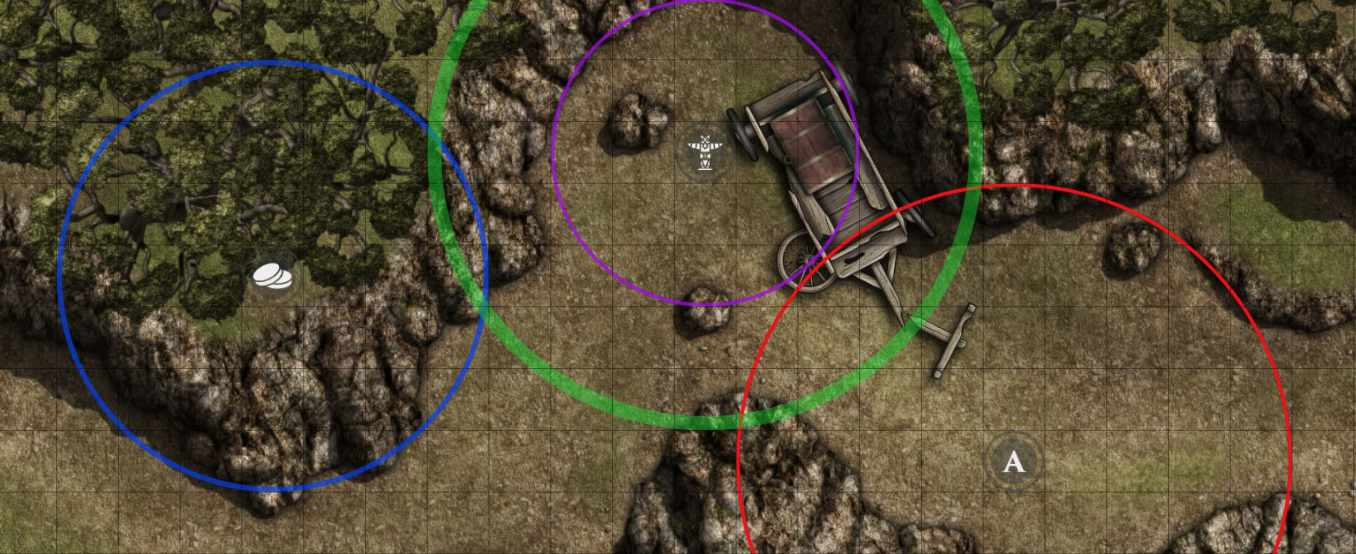
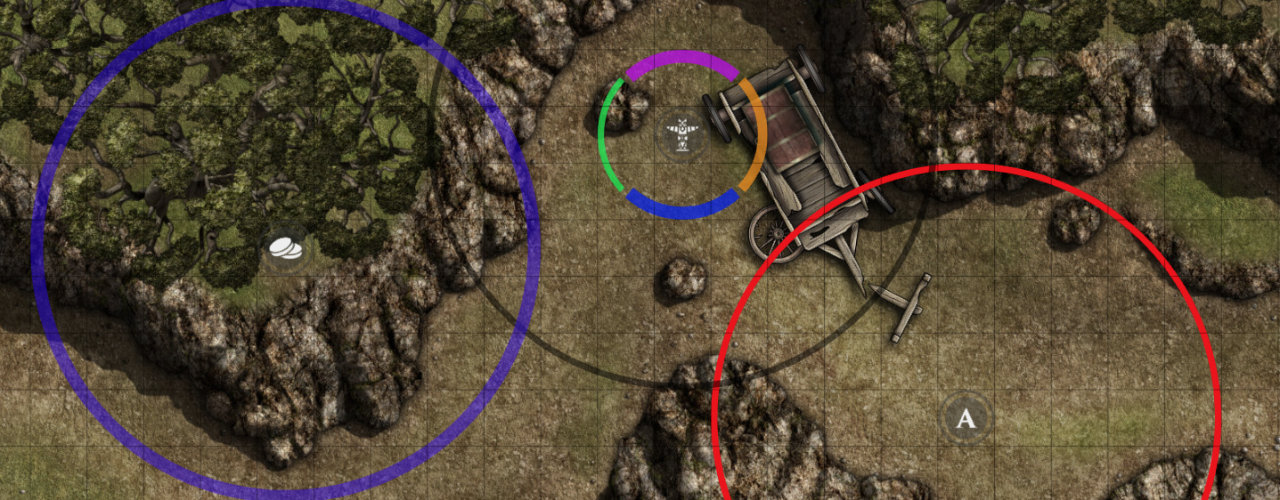
Updated readme, fixed stroke bug

diff --git a/settings.html b/settings.html
@@ -30,7 +30,7 @@
             </button>
 
             <button type="submit">
-                <i class="fas fa-save"></i> Save changes
+                <i class="fas fa-save"></i> Save Changes
             </button>
         </footer>
     </aside>
@@ -55,7 +55,7 @@
                         style="margin-bottom: 0.5rem;"
                         type="button"
                     >
-                        <i class="fas fa-copy"></i> Duplicate Aura
+                        <i class="fas fa-copy"></i> Duplicate Aura Ring
                     </button>
 
                     <button
@@ -63,7 +63,7 @@
                         data-aura="{{auraRing.id}}"
                         type="button"
                     >
-                        <i class="fas fa-trash"></i> Delete Aura
+                        <i class="fas fa-trash"></i> Delete Aura Ring
                     </button>
                 </footer>
             </article>

diff --git a/AuraRingDataModel.js b/AuraRingDataModel.js
@@ -56,8 +56,8 @@ export class AuraRingDataModel extends foundry.abstract.DataModel
             name: 'Aura',
             radius: 20,
             stroke_close: false,
-            stroke_colour: '#000000',
-            stroke_opacity: 0.5,
+            stroke_colour: '#ff0000',
+            stroke_opacity: 0.75,
             stroke_weight: 4,
             visibility: 'PLAYER',
         };
@@ -317,7 +317,6 @@ export class AuraRingDataModel extends foundry.abstract.DataModel
                 0,
                 1,
                 false,
-                true,
             ),
         );
     }

diff --git a/AuraRingCanvas.js b/AuraRingCanvas.js
@@ -186,6 +186,8 @@ export class AuraRingCanvas
         );
 
         this.drawAuraRing(auraRing, auraRing.stroke_close);
+
+        this.pixiGraphics.lineStyle(0, '#000000', 0, 0);
     }
 
     drawAuraRing(auraRing, closePath)

diff --git a/README.md b/README.md
@@ -4,21 +4,23 @@ A simple module for Foundry VTT which adds outlined aura rings to a token.
 
 ![How token aura rings appear to the game master](images/gm.jpg)
 
-Inspired by the [Token Auras](https://foundryvtt.com/packages/token-auras) add-on.
-
 ## About
 
-This Foundry VTT module allows you to add and customise outlined aura rings around a token, ideal for cleanly representing the range of aura type effects without obscuring the map.
+This Foundry VTT module allows you to add and customise aura rings emanated from a token, ideal for cleanly representing the range of aura type effects without obscuring the map.
 
-Aura rings are calculated as an emanation, based on the [Pathfinder 2nd Edition rules](https://2e.aonprd.com/Rules.aspx?ID=2387).
-
-This means that the range of the aura ring is calculated from the edge of the token, instead of the centre.
+Aura rings are calculated as an emanation, based on the [Pathfinder 2nd Edition rules](https://2e.aonprd.com/Rules.aspx?ID=2387). This means that the range of the aura ring is calculated from the edge of the token, instead of the centre.
 
 ![How token aura rings appear to players](images/player.jpg)
 
 Visibility of aura rings are obscured by fog-of-war, and hidden entirely when the viewing player is unable to see the token from which the aura rings are being emitted.
 
 Hidden tokens will only show their aura rings to the game master.
+
+## What's the difference between this and Dynamic Token Rings?
+
+Dynamic Token Rings, which is a Foundry VTT v12 feature, adds a ring directly around the edge of a token to represent resources, such as health or mana.
+
+Token Aura Ring draws an arbitrary ring at any range from the token's edge.
 
 ## Installation
 
@@ -30,17 +32,33 @@ https://raw.githubusercontent.com/AnthonyEdmonds/token-aura-ring/main/module.jso
 
 ## Usage
 
-Once enabled, you can add and configure aura rings from the "Aura Ring" tab on any token settings page.
+Once enabled, you can add and configure aura rings from the "Confgiure Token Aura Rings" button on the "Identity" tab of any token settings page (to avoid any confusion with dynamic token rings).
 
 ![An example of a token aura ring configuration](images/config.jpg)
 
-From there you can set the radius, colour, opacity, weight, and visibility of the aura ring.
+Settings are fully previewed, and are not stored until you press "Save Changes" and "Update Token".
+
+### Stroke and fill
+
+Aura rings may be drawn as an outline, a solid fill, or both.
+
+![An example of an aura ring with a mixture of strokes and fills](images/stroke_fill.jpg)
+
+The colour, opacity, and weight can be individually controlled, and strokes have the option of being "closed" if a complete outline is desired.
 
 ### Multiple aura rings
 
-You can add as many auras to a single token as you like by pressing the "Add a new aura" button at the bottom of the settings tab.
+You can add up to 100 aura rings to a single token by pressing the "Add Aura Ring" button.
 
-To remove an aura ring, set the radius to zero, the visibility to "NONE", or press the "Delete" button.
+Press the "Duplicate Aura Ring" button to create an exact copy of the currently selected aura ring.
+
+Press the "Delete Aura Ring" button to remove the currently selected aura ring.
+
+### Visibility
+
+You can control which user roles can see an aura ring using the "Visible to" setting.
+
+Aura rings can also be hidden by setting the radius to zero, the visibility to "NONE", or the opacity of stroke and fill to 0.
 
 ### Angled aura rings
 
@@ -48,9 +66,9 @@ You can adjust the "Direction" and "Angle" settings to create arcs instead of ci
 
 ![An example of a token with arcs instead of circles](images/arc.jpg)
 
-The "Direction" setting rotates the arc around the token.
-
 The "Angle" setting determines how much of the arc to draw.
+
+The "Direction" setting rotates the arc around the token.
 
 Arcs are drawn relative to the top of the token, where a direction of "0" is considered facing forward.
 
